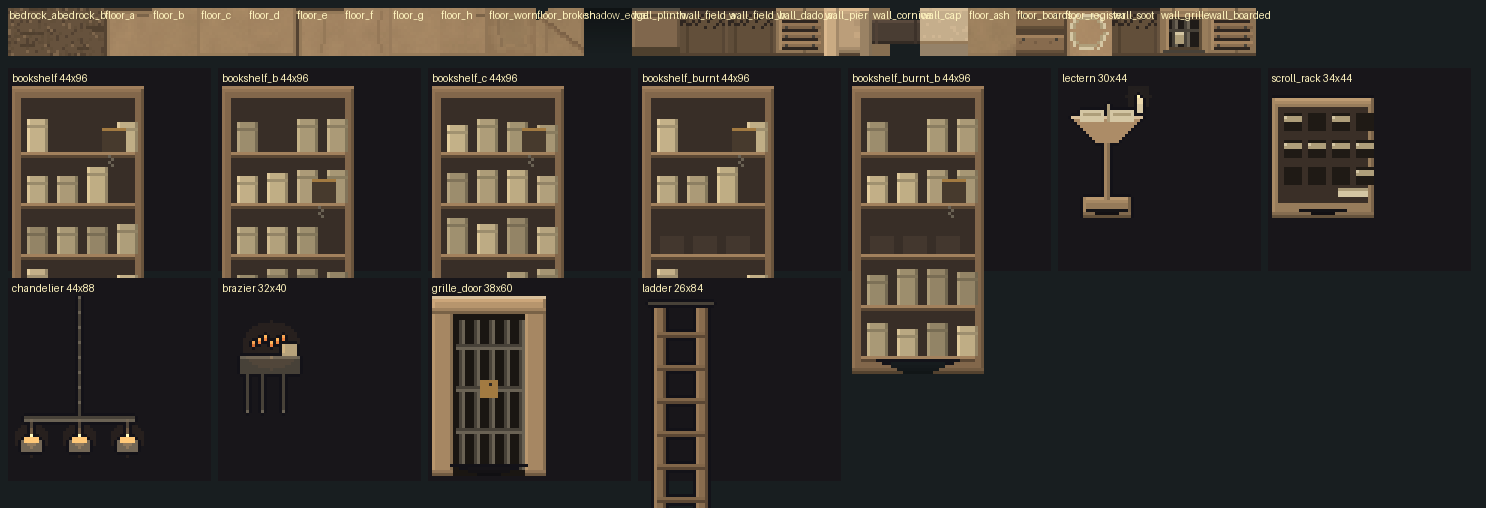
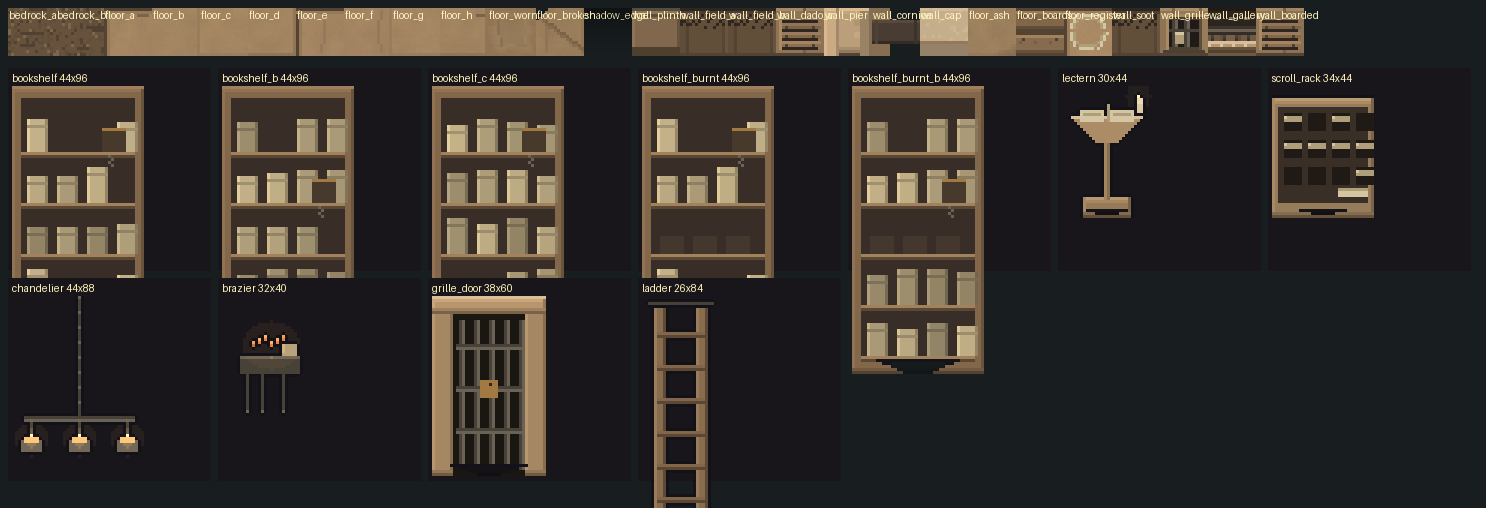
feat(kits): an archive gallery course, so the reading rooms have a storey
The Crossfire Archive's walls ended at the cornice and stopped: soot coursing,
an iron grille, a boarded recess, and then plain coursing to the cap, so
nothing in the room said how tall it was or that a floor had ever been walked
above it.

wall_gallery is that storey, one course: a gallery opening in shadow with a
few ledgers visible inside it, an iron rail on posts over it, and the sill the
rail stands on, with dentils catching the light and a shadow under it. It is
drawn in the kit's own sooted stone so it sits in the wall rather than on it.

Changed region(s): [[0.8048, 0.0, 0.8977, 0.1181]]

diff --git a/tools/level1_4/crypt_kits.py b/tools/level1_4/crypt_kits.py
@@ -1174,6 +1174,46 @@ def archive_soot_band(p: dict):
     return img
 
 
+def archive_gallery_band(p: dict):
+    """A railed gallery above a reading room: the archive's second storey.
+
+    The walls ended at the cornice and stopped - soot, a grille, a boarded recess,
+    and above them nothing but plain coursing to the cap, so nothing in the room
+    said how tall it was or that anyone had ever walked a floor above it. A
+    scriptorium is a tall room with a gallery round it, and a gallery is the
+    cheapest second storey there is: an opening in shadow, a rail carried on
+    corbels, and the kit's own coursing under it.
+    """
+    img = new(T, T)
+    body = shade(mix(p["stone_dark"], p["soot"], 0.30), 1.10)
+    rect(img, 0, 0, T, T, body)
+    courses(img, 0, 0, T, T, body, row_h=T, seed=91, mortar=p["mortar"])
+    # the gallery opening: a dark recess under the rail
+    rect(img, 0, 0, T, 7, shade(p["soot"], 0.84))
+    hline(img, 0, 0, T, shade(p["soot"], 0.60))
+    hline(img, 0, 6, T, shade(p["soot"], 1.24))
+    # ledgers glimpsed inside it, so it reads as a room and not as a slit
+    for x in (2, 7, 12):
+        px(img, x, 3, shade(p["paper_dark"], 0.70))
+        px(img, x + 1, 3, shade(p["paper_dark"], 0.58))
+    # the rail: an iron top rail on posts, then the stone sill it stands on
+    rect(img, 0, 7, T, 2, p["iron"])
+    hline(img, 0, 7, T, p["iron_light"])
+    hline(img, 0, 8, T, shade(p["iron_dark"], 1.15))
+    for x in range(1, T, 4):
+        px(img, x, 9, p["iron"])
+        px(img, x, 10, shade(p["iron_dark"], 1.3))
+    # the sill: a lit course with dentils that catch the light and a shadow under it
+    rect(img, 0, 11, T, 3, shade(p["stone_light"], 0.92))
+    hline(img, 0, 11, T, p["stone_pale"])
+    hline(img, 0, 13, T, shade(p["stone_dark"], 0.80))
+    for x in range(0, T, 4):
+        px(img, x, 12, shade(p["stone_pale"], 1.04))
+    hline(img, 0, 14, T, shade(p["stone_dark"], 0.62))
+    hline(img, 0, 15, T, body)
+    return img
+
+
 def archive_grille_band(p: dict):
     """An iron grille over a shelf recess, and a second one barred with boards.
 
@@ -1935,6 +1975,7 @@ def build_archive_kit() -> None:
     tiles += [
         ("wall_soot", lambda: archive_soot_band(p)),
         ("wall_grille", lambda: archive_grille_band(p)),
+        ("wall_gallery", lambda: archive_gallery_band(p)),
         ("wall_boarded", lambda: archive_boarded_band(p)),
     ]
     props = [
